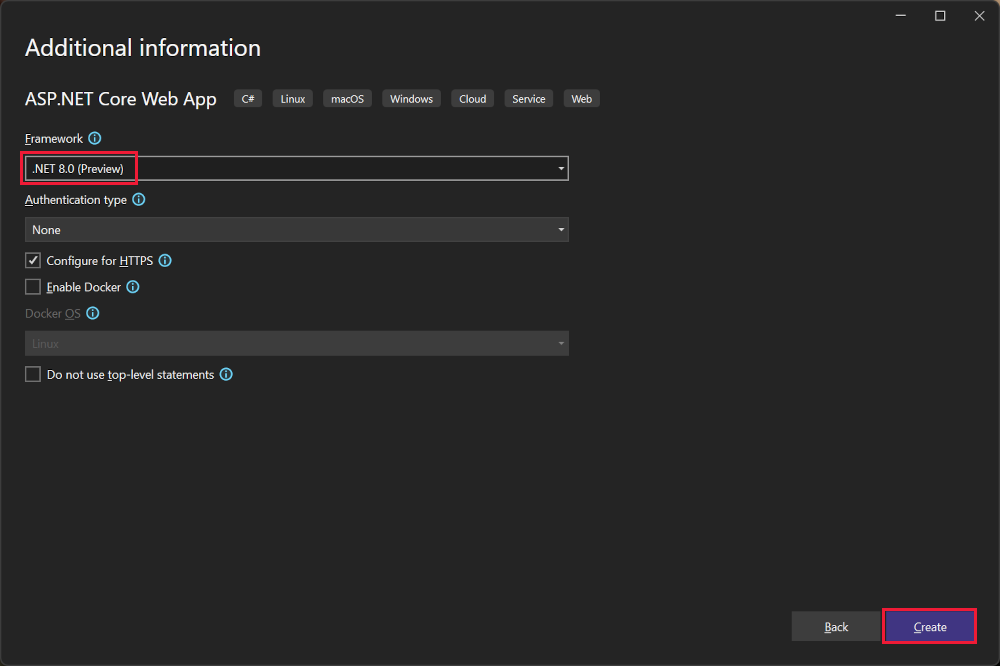
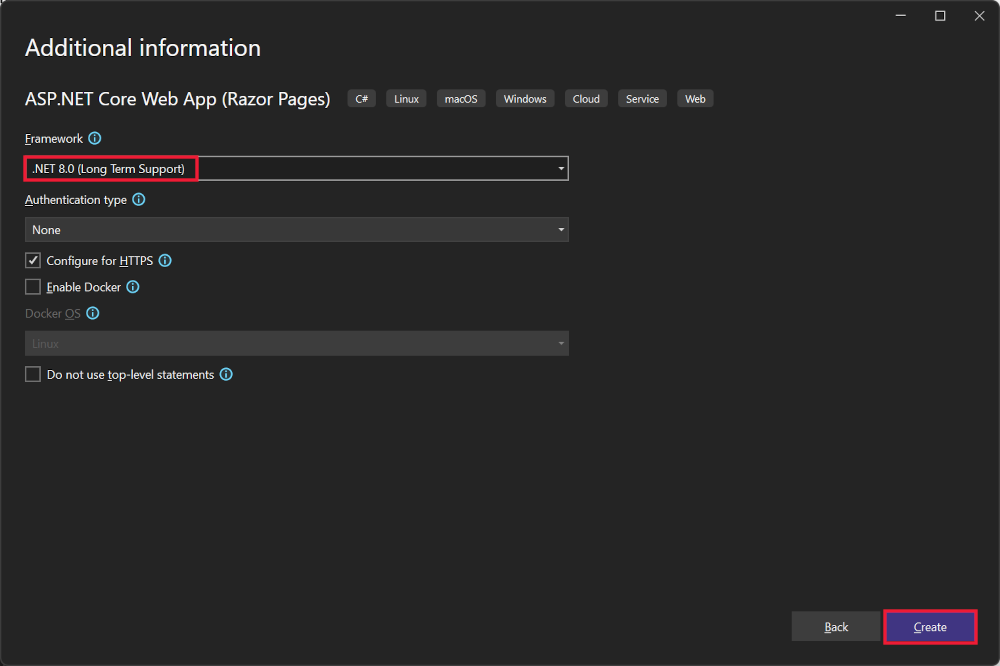
Post 8.0: Update text and screenshot to remove Preview

diff --git a/aspnetcore/tutorials/grpc/grpc-start.md b/aspnetcore/tutorials/grpc/grpc-start.md
@@ -43,7 +43,7 @@ In this tutorial, you:
 * In the **Create a new project** dialog, search for `gRPC`. Select **ASP.NET Core gRPC Service** and select **Next**.
 * In the **Configure your new project** dialog, enter `GrpcGreeter` for **Project name**. It's important to name the project *GrpcGreeter* so the namespaces match when you copy and paste code.
 * Select **Next**.
-* In the **Additional information** dialog, select **.NET 8.0 (Preview)** and then select **Create**.
+* In the **Additional information** dialog, select **.NET 8.0 (Long Term Support)** and then select **Create**.
 
 # [Visual Studio Code](#tab/visual-studio-code)
 
@@ -110,7 +110,7 @@ info: Microsoft.Hosting.Lifetime[0]
 * Open a second instance of Visual Studio and select **New Project**.
 * In the **Create a new project** dialog, select **Console App**, and select **Next**.
 * In the **Project name** text box, enter **GrpcGreeterClient** and select **Next**.
-* In the **Additional information** dialog, select **.NET 8.0 (Preview)** and then select **Create**.
+* In the **Additional information** dialog, select **.NET 8.0 (Long Term Support)** and then select **Create**.
 
 # [Visual Studio Code](#tab/visual-studio-code)
 
@@ -129,7 +129,7 @@ info: Microsoft.Hosting.Lifetime[0]
 
 * In Visual Studio 2022 for Mac select **File** > **Add** > **Project...**.
 * In the **Choose a template for your new project** dialog, select **Web and Console** > **App** > **Console Application**, and select **Continue**.
-* Select **.NET 8.0** for the target framework, and select **Continue**.
+* Select **.NET 8.0 (Long Term Support)** for the target framework, and select **Continue**.
 * Name the project **GrpcGreeterClient**. It's important to name the project *GrpcGreeterClient* so the namespaces match when you copy and paste code.
 * Select **Continue**.
 

diff --git a/aspnetcore/tutorials/first-mvc-app/start-mvc.md b/aspnetcore/tutorials/first-mvc-app/start-mvc.md
@@ -60,11 +60,11 @@ See https://github.com/dotnet/AspNetCore.Docs/issues/21193
 * In the **Configure your new project** dialog, enter `MvcMovie` for **Project name**. It's important to name the project *MvcMovie*. Capitalization needs to match each `namespace` when code is copied.
 * Select **Next**.
 * In the **Additional information** dialog:
-  * Select **.NET 8.0 (Preview)**.
+  * Select **.NET 8.0 (Long Term Support)**.
   * Verify that **Do not use top-level statements** is unchecked.
 * Select **Create**.
 
-![Additional info dialog](~/tutorials/first-mvc-app/start-mvc/_static/8/additional-info-VS22-17.8.0.png)
+![Additional info dialog](~/tutorials/first-mvc-app/start-mvc/_static/8/additional-info-VS22-17.9.0.png)
 
 For more information, including alternative approaches to create the project, see [Create a new project in Visual Studio](/visualstudio/ide/create-new-project).
 

diff --git a/aspnetcore/tutorials/first-mongo-app.md b/aspnetcore/tutorials/first-mongo-app.md
@@ -144,7 +144,7 @@ Use the previously installed MongoDB Shell in the following steps to create a da
 1. Go to **File** > **New** > **Project**.
 1. Select the **ASP.NET Core Web API** project type, and select **Next**.
 1. Name the project *BookStoreApi*, and select **Next**.
-1. Select the **.NET 6.0 (Long-term support)** framework and select **Create**.
+1. Select the **.NET 8.0 (Long Term support)** framework and select **Create**.
 1. In the **Package Manager Console** window, navigate to the project root. Run the following command to install the .NET driver for MongoDB:
 
    ```powershell

diff --git a/aspnetcore/tutorials/first-web-api.md b/aspnetcore/tutorials/first-web-api.md
@@ -59,7 +59,7 @@ The following diagram shows the design of the app.
 * Select the **ASP.NET Core Web API** template and select **Next**.
 * In the **Configure your new project dialog**, name the project *TodoApi* and select **Next**.
 * In the **Additional information** dialog:
-  * Confirm the **Framework** is **.NET 8.0 (Preview)**.
+  * Confirm the **Framework** is **.NET 8.0 (Long Term Support)**.
   * Confirm the checkbox for **Use controllers(uncheck to use minimal APIs)** is checked.
   * Confirm the checkbox for **Enable OpenAPI support** is checked.
   * Select **Create**.

diff --git a/aspnetcore/tutorials/razor-pages/razor-pages-start.md b/aspnetcore/tutorials/razor-pages/razor-pages-start.md
@@ -52,7 +52,7 @@ At the end of this tutorial, you'll have a Razor Pages web app that manages a da
 * In the **Configure your new project** dialog, enter `RazorPagesMovie` for **Project name**. It's important to name the project **RazorPagesMovie**, including matching the capitalization, so the namespaces will match when you copy and paste example code.
 * Select **Next**.
 * In the **Additional information** dialog:
-  * Select **.NET 8.0 (Preview)**.
+  * Select **.NET 8.0 (Long Term Support)**.
   * Verify: **Do not use top-level statements** is unchecked.
 * Select **Create**.
 

diff --git a/aspnetcore/tutorials/signalr-typescript-webpack.md b/aspnetcore/tutorials/signalr-typescript-webpack.md
@@ -61,7 +61,7 @@ To create a new ASP.NET Core web app:
 
 1. Use the **File** > **New** > **Project** menu option and choose the **ASP.NET Core Empty** template. Select **Next**.
 1. Name the project `SignalRWebpack`, and select **Create**.
-1. Select `.NET 8.0` from the **Framework** drop-down. Select **Create**.
+1. Select **.NET 8.0 (Long Term Support)** from the **Framework** drop-down. Select **Create**.
 
 Add the [Microsoft.TypeScript.MSBuild](https://www.nuget.org/packages/Microsoft.TypeScript.MSBuild/) NuGet package to the project:
 

diff --git a/aspnetcore/tutorials/min-web-api.md b/aspnetcore/tutorials/min-web-api.md
@@ -64,11 +64,11 @@ This tutorial creates the following API:
 
 * Name the project *TodoApi* and select **Next**.
 * In the **Additional information** dialog:
-  * Select **.NET 8.0**
+  * Select **.NET 8.0 (Long Term Support)**
   * Uncheck **Do not use top-level statements**
   * Select **Create**
 
-  ![Additional information](~/tutorials/min-web-api/_static/8.x/add-info-vs17.8.0.png)
+  ![Additional information](~/tutorials/min-web-api/_static/8.x/add-info-vs17.9.0.png)
 
 # [Visual Studio Code](#tab/visual-studio-code)
 

diff --git a/aspnetcore/tutorials/first-mvc-app/adding-model.md b/aspnetcore/tutorials/first-mvc-app/adding-model.md
@@ -99,9 +99,9 @@ Run the following .NET CLI commands:
 
 ```dotnetcli
 dotnet tool uninstall --global dotnet-aspnet-codegenerator
-dotnet tool install --global dotnet-aspnet-codegenerator --version 8.0.0-preview.*
+dotnet tool install --global dotnet-aspnet-codegenerator
 dotnet tool uninstall --global dotnet-ef
-dotnet tool install --global dotnet-ef --version 8.0.0-preview.*
+dotnet tool install --global dotnet-ef
 ```
 
 [!INCLUDE[](~/includes/dotnet-tool-install-arch-options.md)]

diff --git a/aspnetcore/grpc/interprocess.md b/aspnetcore/grpc/interprocess.md
@@ -139,7 +139,7 @@ The client and server must be configured to use an inter-process communication (
 * [Inter-process communication with gRPC and Named pipes](xref:grpc/interprocess-namedpipes)
 
 > [!NOTE]
-> Built-in support for Named pipes in ASP.NET Core requires .NET 8 or later. .NET 8 is currently in preview and will be released near the end of 2023.
+> Built-in support for Named pipes in ASP.NET Core requires .NET 8 or later.
 
 :::moniker-end
 

diff --git a/aspnetcore/tutorials/signalr.md b/aspnetcore/tutorials/signalr.md
@@ -63,7 +63,7 @@ In the **Configure your new project** dialog, enter `SignalRChat` for **Project 
 
 Select **Next**.
 
-In the **Additional information** dialog, select **.NET 8.0** and then select **Create**.
+In the **Additional information** dialog, select **.NET 8.0 (Long Term Support)** and then select **Create**.
 
 ![Additional information](~/tutorials/signalr/_static/8.x/additional-info-vs17.8.0.png)
 
